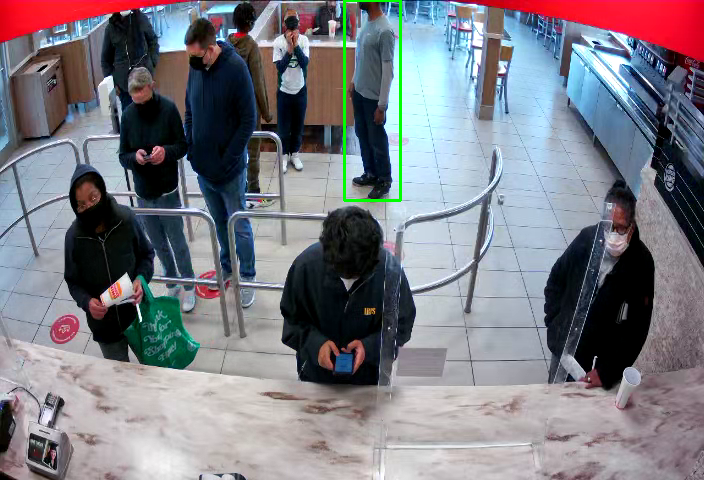
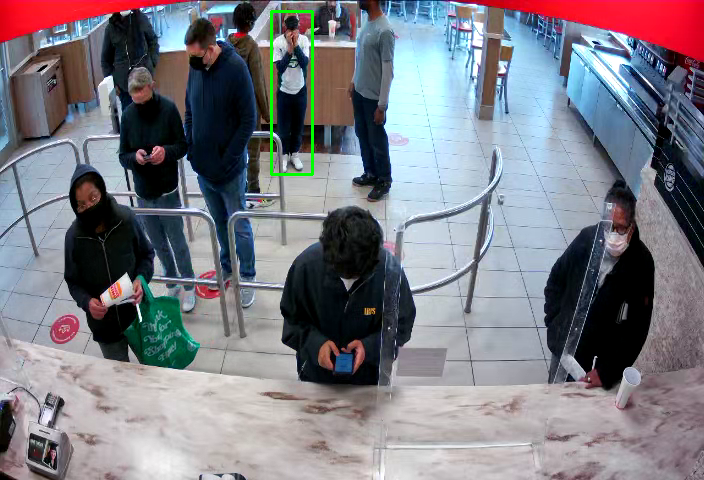
Complete draft

Changed region(s): [[0.375, 0.0, 0.5938, 0.4375]]

diff --git a/cnn/main.py b/cnn/main.py
@@ -1,7 +1,7 @@
 import cv2 as cv
 import numpy as np
 import os
-from PIL import Image
+from PIL import Image, ImageOps
 from utils import model, tools
 import torch
 
@@ -42,11 +42,7 @@ def get_normalized_hsv_histogram(rectangle: cv.typing.MatLike) -> cv.typing.MatL
     return cv.normalize(histogram, histogram).flatten()
 
 
-def get_normalized_hsv_histogram_np(mask_3d):
-    pass
-
-
-def calculate_hist_img(image_filename: str) -> list[dict]:
+def calculate_hist_img_filename(image_filename: str) -> list[dict]:
     """
     Calculates the HSV histograms of rectangles generated from a given list of coordinates.
 
@@ -84,32 +80,40 @@ def calculate_hist_img(image_filename: str) -> list[dict]:
     return histograms
 
 
-def draw_bounding_boxes(image, mask_tensor):
-    # Convert torch tensor to numpy array if necessary
-    mask = mask_tensor.numpy() if isinstance(mask_tensor, torch.Tensor) else mask_tensor
+def calculate_hist_img(image: Image) -> list[dict]:
+    """
+    Calculates the HSV histograms of the full and half portions of the given image.
 
-    # Ensure mask is binary (0 or 255)
-    mask_binary = (mask > 0).astype(np.uint8) * 255
+    Args:
+        image: PIL image object to be processed
 
-    # Check if the mask is empty
-    if np.sum(mask_binary) == 0:
-        print("Warning: Empty mask. Skipping contour detection.")
-        return image
+    Returns:
+        List of full and half histograms for the image.
+    """
+    # Convert the PIL image to a numpy array
+    image_np = np.array(image)
 
-    # Find contours in the binary mask
-    contours, _ = cv.findContours(mask_binary, cv.RETR_EXTERNAL, cv.CHAIN_APPROX_SIMPLE)
+    # Get the dimensions of the image
+    height, width = image_np.shape[:2]
 
-    # Draw bounding boxes on the original image
-    for contour in contours:
-        # Get bounding box coordinates
-        x, y, w, h = cv.boundingRect(contour)
-        # Draw bounding box on the original image
-        cv.rectangle(image, (x, y), (x + w, y + h), (0, 255, 0), 2)
+    # Calculate the coordinates for cropping (top half)
+    start_row, start_col = 0, 0
+    end_row, end_col = int(height / 2), width
 
-    return image
+    # Crop the full and half portions of the image
+    person_full = image_np
+    person_half = image_np[start_row:end_row, start_col:end_col]
+
+    # Calculate the histograms
+    histograms = {
+        "full": get_normalized_hsv_histogram(person_full),
+        "half": get_normalized_hsv_histogram(person_half),
+    }
+
+    return histograms
 
 
-def draw_bounding_boxes(image, mask_tensor):
+def draw_bounding_boxes(image: np.ndarray, mask_tensor: torch.Tensor):
     """
     Draws bounding boxes around detected objects based on the mask tensor on the provided image.
 
@@ -147,6 +151,91 @@ def draw_bounding_boxes(image, mask_tensor):
     return image
 
 
+def fit_to_person(person_image):
+    # Convert image to grayscale
+    person_image_gray = person_image.convert("L")
+
+    # Get bounding box of person
+    bbox = person_image_gray.getbbox()
+
+    if bbox:
+        # Calculate width and height of bounding box
+        width = bbox[2] - bbox[0]
+        height = bbox[3] - bbox[1]
+
+        # Create a new blank image with the same size as the bounding box
+        new_image = Image.new("RGB", (width, height), color="black")
+
+        # Paste the person image onto the new image, aligning it to the top-left corner
+        new_image.paste(person_image.crop(bbox), (0, 0))
+
+        return new_image
+    else:
+        # No person found in the image, return None
+        return None
+
+
+def extract_people_from_masks(original_image, masks) -> list[dict]:
+    """
+    Applies each mask to the original image and extracts the result as a new image.
+
+    Args:
+        original_image (numpy.ndarray): The original image from which to extract people.
+        masks (list of numpy.ndarray): A list of masks, where each mask corresponds to a person.
+
+    Returns:
+        List of PIL.Image: A list of image objects, each containing a person extracted from the original image.
+    """
+    # Get OG image and all masks.
+    # Apply each mask on the image and extracted each person out as their own image
+    # We fit the size of each image to the height/width of each person
+    # We removed the remaining black background from each image
+    # We return the list of images, each representing a cutout of a person
+    people_images: list[dict] = []
+
+    for mask in masks:
+        # Make sure the mask is binary and has the same dimensions as the original image
+        mask_binary = mask[0].cpu().numpy() > 0.5
+        mask_binary = np.repeat(mask_binary[:, :, np.newaxis], 3, axis=2)
+
+        # Apply the mask to the original image
+        person_cutout = np.where(mask_binary, original_image, 0)
+
+        # Convert the cutout to a PIL image
+        person_image = Image.fromarray(person_cutout.astype("uint8"))
+        person_image = fit_to_person(person_image)
+
+        # ----- Remove black background from image
+        # Convert PIL image to NumPy array
+        person_image = np.array(person_image)
+
+        # Convert image to image gray
+        tmp = cv.cvtColor(person_image, cv.COLOR_BGR2GRAY)
+
+        # Applying thresholding technique
+        _, alpha = cv.threshold(tmp, 0, 255, cv.THRESH_BINARY)
+
+        # Using cv2.split() to split channels
+        # of coloured image
+        b, g, r = cv.split(person_image)
+
+        # Making list of Red, Green, Blue
+        # Channels and alpha
+        rgba = [b, g, r, alpha]
+
+        # Using cv2.merge() to merge rgba
+        # into a coloured/multi-channeled image
+        dst = cv.merge(rgba, 4)
+        bob = Image.fromarray(dst.astype("uint8"))
+
+        # bob.show()
+        # exit()
+
+        people_images.append({"person_image": bob, "mask": mask})
+
+    return people_images
+
+
 def find_100_best_matches(person: list[dict], person_name: str, folder_name: str):
     """
     Finds the 100 image frames from 1000+ test image files (8600+ labelled frames) that
@@ -166,7 +255,7 @@ def find_100_best_matches(person: list[dict], person_name: str, folder_name: str
             counter += 1
 
             # image_name = file
-            image_name = "1637433795047605000.png"
+            image_name = "1637433787672853500.png"
             print(f"===========================================================")
             print(f"Segmenting {counter}: {image_name}")
 
@@ -183,44 +272,31 @@ def find_100_best_matches(person: list[dict], person_name: str, folder_name: str
                 output = seg_model([transformed_img])
 
             # Traiter le résultat de l'inférence
-            result = tools.process_inference(output, image)
+            # result = tools.process_inference(output, image)
+            list_of_masks: list = tools.process_inference(output, image)
+            people_imgs = extract_people_from_masks(image, list_of_masks)
+
+            all_histograms: list = []
+
+            for person_img in people_imgs:
+                # person_img.show()
+                all_histograms.append(calculate_hist_img(person_img["person_image"]))
 
             # Max comparison value of the test person with all other people in the image
             max_comparison = []
 
-            for mask in result:
-
-                # Histogram of full mask
-                # histogram_full = cv.calcHist(
-                #     [np.array(mask)], [0], None, [256], [0, 256]
-                # )
-                histogram_full = get_normalized_hsv_histogram_np(mask)
-
-                # Histogram of half mask
-                height = mask.shape[0]
-                # Slice the top half of the mask
-                top_half_mask = mask[0 : height // 2, :]
-                # histogram_half = cv.calcHist(
-                #     [np.array(top_half_mask)], [0], None, [256], [0, 256]
-                # )
-                print("-------------------------------------------------")
-                print(top_half_mask)
-                print(top_half_mask.shape)
-                print(np.unique(top_half_mask))
-                print("-------------------------------------------------")
-                histogram_half = get_normalized_hsv_histogram_np(top_half_mask)
-
+            for hist in all_histograms:
                 full_full = cv.compareHist(
-                    person["full"], histogram_full, cv.HISTCMP_CORREL
+                    person["full"], hist["full"], cv.HISTCMP_CORREL
                 )
                 full_half = cv.compareHist(
-                    person["full"], histogram_half, cv.HISTCMP_CORREL
+                    person["full"], hist["half"], cv.HISTCMP_CORREL
                 )
                 half_full = cv.compareHist(
-                    person["half"], histogram_full, cv.HISTCMP_CORREL
+                    person["half"], hist["full"], cv.HISTCMP_CORREL
                 )
                 half_half = cv.compareHist(
-                    person["half"], histogram_half, cv.HISTCMP_CORREL
+                    person["half"], hist["half"], cv.HISTCMP_CORREL
                 )
                 max_comparison.append(max(full_full, full_half, half_full, half_half))
 
@@ -228,31 +304,23 @@ def find_100_best_matches(person: list[dict], person_name: str, folder_name: str
             max_in_image = max(max_comparison)
             print(f"-- {max_in_image}")
 
-            best_mask = result[max_comparison.index(max_in_image)]
-            print(f"Mask ---- {best_mask}")
-            print(type(best_mask))
+            best_person = people_imgs[max_comparison.index(max_in_image)]
+            # best_person["mask"]
+            # best_person["person_image"].show()
 
-            # Load the original image and the mask
-            original_image = cv.imread(f"{source_path_dir}/{image_name}")
-
-            # Assuming your mask is a torch.Tensor object named mask_tensor
-            # Draw bounding boxes on the original image using the mask
-            image_with_boxes = draw_bounding_boxes(original_image, best_mask)
-
-            # # Display the result
-            # cv.imshow("Image with Bounding Boxes", image_with_boxes)
-            # cv.waitKey(0)
-            # cv.destroyAllWindows()
-
+            # image.show()
+            img_bounding_box_np = draw_bounding_boxes(
+                np.array(image), best_person["mask"]
+            )
+            img_bounding_box = Image.fromarray(img_bounding_box_np.astype(np.uint8))
             if not os.path.exists(f"{output_path_dir}/{person_name}"):
                 os.makedirs(f"{output_path_dir}/{person_name}")
-            # Assuming image_with_boxes is the image returned by draw_bounding_boxes
-            cv.imwrite(
-                f"{output_path_dir}/{person_name}/{image_name}", image_with_boxes
+            img_bounding_box.save(
+                os.path.join(f"{output_path_dir}/{person_name}", image_name)
             )
-            # result.save(os.path.join(output_path_dir, image_with_boxes))
-
             # result.show()
+            # img_with_bounding_box.show()
+
         else:
             break
 
@@ -271,15 +339,16 @@ if __name__ == "__main__":
 
     # Calculate histogram of everyone in image
     histograms = [
-        calculate_hist_img(test_image_filenames[0]),
-        calculate_hist_img(test_image_filenames[1]),
-        calculate_hist_img(test_image_filenames[2]),
-        calculate_hist_img(test_image_filenames[3]),
-        calculate_hist_img(test_image_filenames[4]),
+        calculate_hist_img_filename(test_image_filenames[0]),
+        calculate_hist_img_filename(test_image_filenames[1]),
+        calculate_hist_img_filename(test_image_filenames[2]),
+        calculate_hist_img_filename(test_image_filenames[3]),
+        calculate_hist_img_filename(test_image_filenames[4]),
     ]
 
-    print(f"[+] Calculating results for person 1...")
-    find_100_best_matches(histograms[0], "person_1", "cam0")
+    for i in range(0, 5):
+        print(f"[+] Calculating results for person {i+1}...")
+        find_100_best_matches(histograms[i], f"person_{i+1}", "cam0")
 
     # print(f"[+] Calculating results for person 2...")
     # find_100_best_matches(histograms1[1], "person_with_cap_img1")
